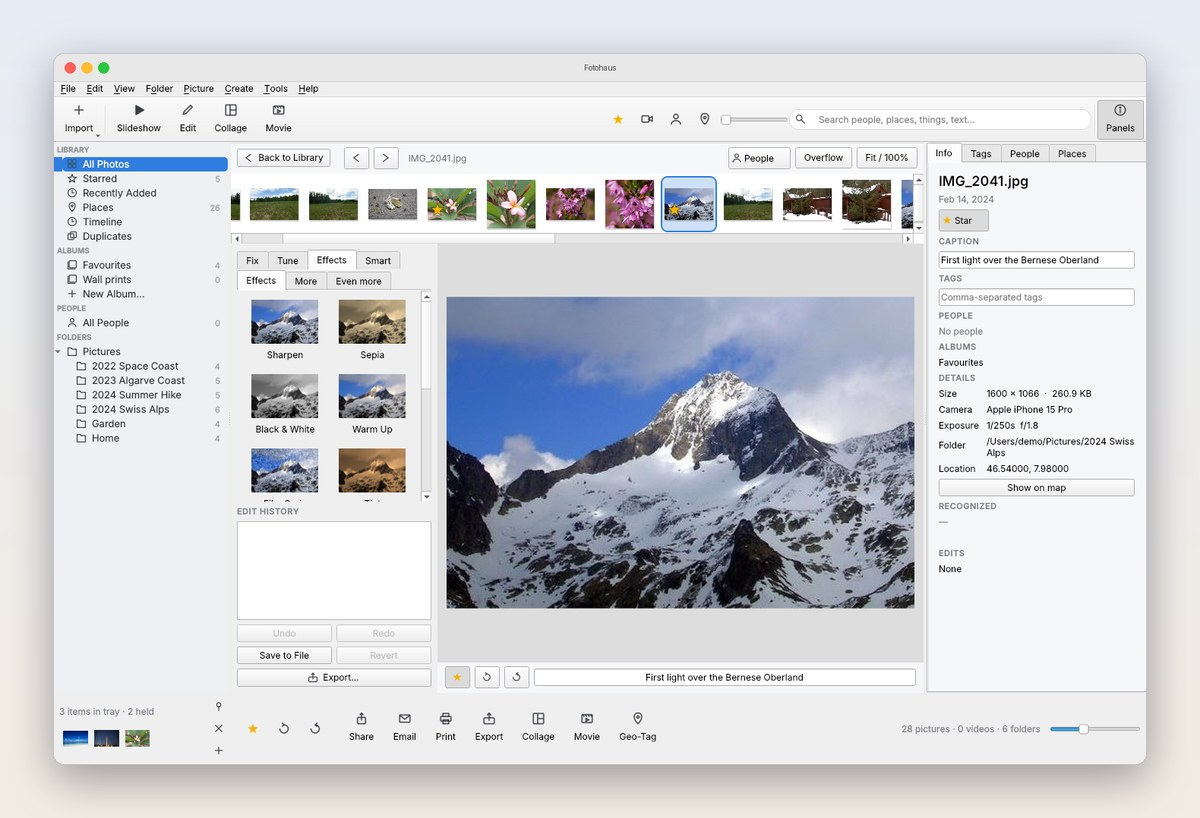
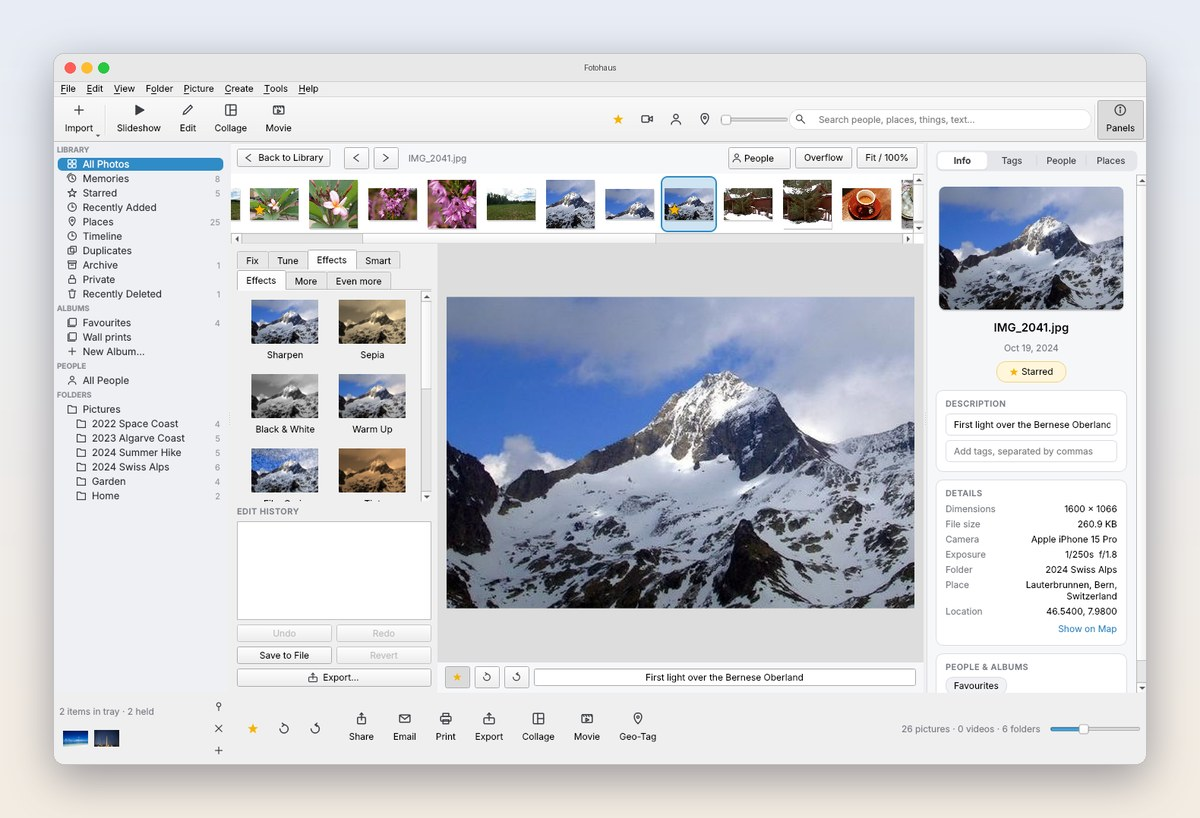
README: new screenshots and an On this day section; show the start of long descriptions

diff --git a/fotohaus/ui/infopanel.py b/fotohaus/ui/infopanel.py
@@ -380,6 +380,9 @@ class InfoPanel(QScrollArea):
         self.desc.show()
         self.caption.setText(r["caption"] or "")
         self.tags.setText(", ".join(k for k in (r["keywords"] or "").split(",") if k))
+        for e in (self.caption, self.tags):     # show the start of long text, not the end
+            if not e.hasFocus():
+                e.setCursorPosition(0)
 
         self.details.show()
         if r["width"]:

diff --git a/README.md b/README.md
@@ -45,6 +45,17 @@ no library to set up first. Zoom with the scroll wheel, star or rotate as you go
 <img src="docs/viewer.jpg" alt="Fotohaus photo viewer open over the desktop, with a filmstrip of the folder and a control bar" width="100%">
 </div>
 
+## On this day
+
+Each day Fotohaus looks back through your library for pictures taken on today's date in
+earlier years, and gathers them into **Memories**: "2 years ago", "3 years ago", ready to play as a
+slideshow. Each photo also knows where it was taken ("Lauterbrunnen, Bern, Switzerland"), worked out
+on your Mac from a built-in atlas, so you can simply search for a town.
+
+<div align="center">
+<img src="docs/memories.jpg" alt="Fotohaus Memories: photos from this day two, three and four years ago, with the place shown in the info panel" width="100%">
+</div>
+
 ## What it does
 
 <table>
